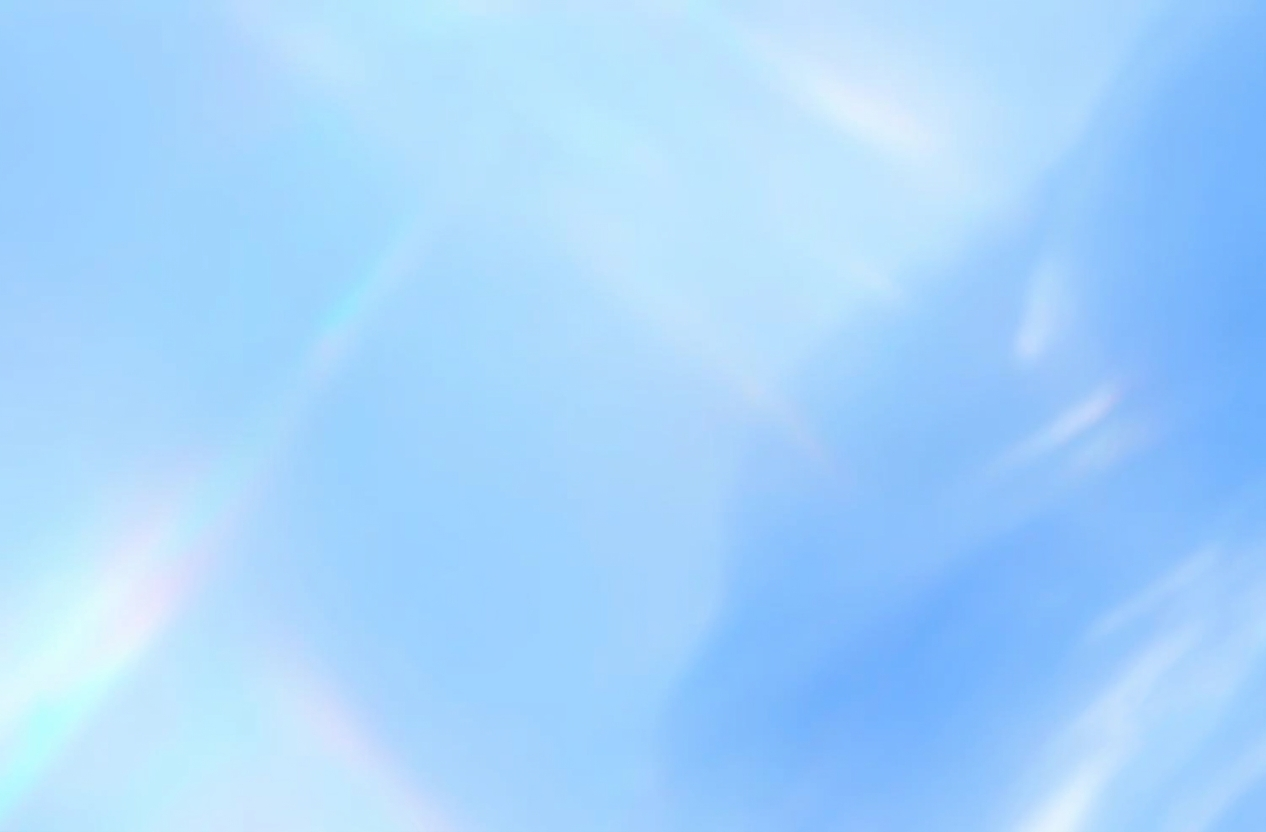
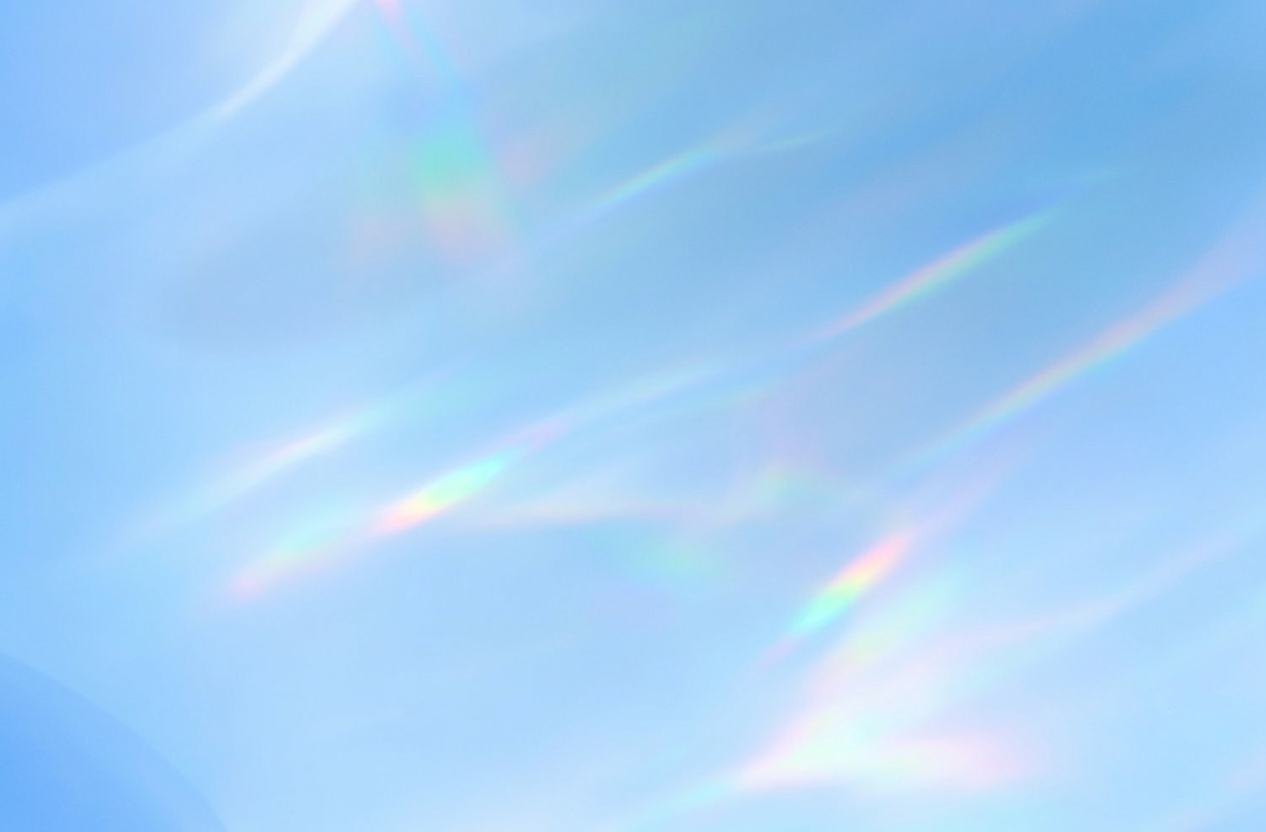
feat: hero bg gradient columns blue, problem pt 20 on title

diff --git a/src/app/components/sections/main/Hero1.tsx b/src/app/components/sections/main/Hero1.tsx
@@ -5,6 +5,18 @@ import { useEffect, useRef, useState } from 'react'
 const WHATSAPP_URL =
     'https://wa.me/573235619283?text=Hola%2C%20quiero%20saber%20m%C3%A1s%20sobre%20el%20servicio%20de%20landing%20pages%20para%20mi%20proyecto%20inmobiliario.'
 
+const WaIconContact = ({ className = "w-5 h-5" }: { className?: string }) => (
+    <svg
+        viewBox="0 0 30.667 30.667"
+        className={className}
+        fill="currentColor"
+    >
+        <path
+            d="M30.667,14.939c0,8.25-6.74,14.938-15.056,14.938c-2.639,0-5.118-0.675-7.276-1.857L0,30.667l2.717-8.017 c-1.37-2.25-2.159-4.892-2.159-7.712C0.559,6.688,7.297,0,15.613,0C23.928,0.002,30.667,6.689,30.667,14.939z M15.61,2.382 c-6.979,0-12.656,5.634-12.656,12.56c0,2.748,0.896,5.292,2.411,7.362l-1.58,4.663l4.862-1.545c2,1.312,4.393,2.076,6.963,2.076 c6.979,0,12.658-5.633,12.658-12.559C28.27,8.016,22.59,2.382,15.61,2.382z M23.214,18.38c-0.094-0.151-0.34-0.243-0.708-0.427 c-0.367-0.184-2.184-1.069-2.521-1.189c-0.34-0.123-0.586-0.185-0.832,0.182c-0.243,0.367-0.951,1.191-1.168,1.437 c-0.215,0.245-0.43,0.276-0.799,0.095c-0.369-0.186-1.559-0.57-2.969-1.817c-1.097-0.972-1.838-2.169-2.052-2.536 c-0.217-0.366-0.022-0.564,0.161-0.746c0.165-0.165,0.369-0.428,0.554-0.643c0.185-0.213,0.246-0.364,0.369-0.609 c0.121-0.245,0.06-0.458-0.031-0.643c-0.092-0.184-0.829-1.984-1.138-2.717c-0.307-0.732-0.614-0.611-0.83-0.611 c-0.215,0-0.461-0.03-0.707-0.03S9.897,8.215,9.56,8.582s-1.291,1.252-1.291,3.054c0,1.804,1.321,3.543,1.506,3.787 c0.186,0.243,2.554,4.062,6.305,5.528c3.753,1.465,3.753,0.976,4.429,0.914c0.678-0.062,2.184-0.885,2.49-1.739 C23.307,19.268,23.307,18.533,23.214,18.38z"
+        />
+    </svg>
+)
+
 const NOTIFICATIONS = [
     {
         id: 3,
@@ -51,7 +63,7 @@ type Notif = typeof NOTIFICATIONS[0]
 
 const NotifCard = ({ n, time }: { n: Notif; time: string }) => (
     <div
-        className="rounded-2xl px-4 py-3 shadow-[0_8px_40px_rgba(0,0,0,0.1)] backdrop-blur-md"
+        className="rounded-2xl px-4 py-3 shadow-[0_12px_50px_rgba(0,0,0,0.16)] backdrop-blur-md"
         style={{
             background: 'rgba(255, 255, 255, 0.75)',
         }}
@@ -185,6 +197,31 @@ const NotifStack = ({ visible }: { visible: boolean }) => {
     )
 }
 
+
+const BarsBackground = () => (
+    <div
+        className="absolute inset-0 overflow-hidden pointer-events-none"
+        style={{
+            // Modificado: El desvanecimiento empieza mucho más abajo (30%) y se vuelve totalmente transparente al 75%
+            maskImage: 'linear-gradient(to top, black 30%, transparent 75%)',
+            WebkitMaskImage: 'linear-gradient(to top, black 30%, transparent 75%)',
+        }}
+    >
+        <div className="w-full h-full flex items-stretch">
+            {[...Array(5)].map((_, i) => (
+                <div
+                    key={i}
+                    className={`flex-1 h-full ${i >= 3 ? 'hidden md:block' : ''}`}
+                    style={{
+                        background:
+                            'linear-gradient(90deg, #9bc1ff, #a8cbfc, #adcafa, #a8cbfc, #9bc1ff, #6ea3f3)',
+                    }}
+                />
+            ))}
+        </div>
+    </div>
+)
+
 export default function Hero() {
     const paraRef = useRef<HTMLParagraphElement>(null)
     const [stackVisible, setStackVisible] = useState(false)
@@ -205,16 +242,18 @@ export default function Hero() {
     }, [])
 
     return (
-        <section className="relative w-full padding-block py-40 md:py-30 bg-[#f8f8ff] overflow-hidden">
+        <section className="relative flex  w-full padding-block min-h-[100svh] bg-[#EDEFF3] overflow-hidden">
+            <BarsBackground />
+
             <div className="relative z-20 container-site w-full max-w-3xl px-4 flex flex-col items-center justify-center text-center gap-6">
                 <h1
-                    className="m-0 block text-neutral-950 font-semibold tracking-tighter drop-shadow-sm"
+                    className="m-0 block text-neutral-950 font-medium tracking-tighter drop-shadow-sm"
                     style={{
-                        fontSize: 'clamp(3rem, 4vw, 4.5rem)',
-                        lineHeight: 0.9,
+                        fontSize: 'clamp(1.9rem, 4vw, 4.5rem)',
+                        lineHeight: 1.05,
                     }}
                 >
-                    Landing pages para <br className='hidden md:block'/> proyectos inmobiliarios
+                    Landing pages para proyectos inmobiliarios
                 </h1>
 
                 <p
@@ -228,12 +267,11 @@ export default function Hero() {
                     href={WHATSAPP_URL}
                     target="_blank"
                     rel="noopener noreferrer"
-                    className="flex bg-black justify-center items-center gap-2 py-3 w-44 rounded-full text-white shadow-lg shadow-black/10 transition-all duration-300 hover:bg-neutral-800"
+                    className="flex bg-neutral-900 justify-center items-center gap-2 py-3 w-47 rounded-full text-white shadow-lg shadow-black/10 transition-all duration-300 hover:bg-neutral-800"
                 >
+                    <WaIconContact className="w-5 h-5 fill-white" />
                     Agendar llamada
-                    <svg width="13" height="13" viewBox="0 0 13 13" fill="none" aria-hidden="true" className="transition-transform group-hover:translate-x-0.5">
-                        <path d="M2 6.5h9M7.5 2.5l4 4-4 4" stroke="currentColor" strokeWidth="1.6" strokeLinecap="round" strokeLinejoin="round" />
-                    </svg>
+
                 </a>
 
                 <div className="w-full mt-8">

diff --git a/src/app/components/sections/main/Hero.tsx b/src/app/components/sections/main/Hero.tsx
@@ -197,6 +197,31 @@ const NotifStack = ({ visible }: { visible: boolean }) => {
     )
 }
 
+
+const BarsBackground = () => (
+    <div
+        className="absolute inset-0 overflow-hidden pointer-events-none"
+        style={{
+            // Modificado: El desvanecimiento empieza mucho más abajo (30%) y se vuelve totalmente transparente al 75%
+            maskImage: 'linear-gradient(to top, black 30%, transparent 75%)',
+            WebkitMaskImage: 'linear-gradient(to top, black 30%, transparent 75%)',
+        }}
+    >
+        <div className="w-full h-full flex items-stretch">
+            {[...Array(5)].map((_, i) => (
+                <div
+                    key={i}
+                    className={`flex-1 h-full ${i >= 3 ? 'hidden md:block' : ''}`}
+                    style={{
+                        background:
+                            'linear-gradient(90deg, #9bc1ff, #a8cbfc, #adcafa, #a8cbfc, #9bc1ff, #6ea3f3)',
+                    }}
+                />
+            ))}
+        </div>
+    </div>
+)
+
 export default function Hero() {
     const paraRef = useRef<HTMLParagraphElement>(null)
     const [stackVisible, setStackVisible] = useState(false)
@@ -218,6 +243,8 @@ export default function Hero() {
 
     return (
         <section className="relative w-full padding-block py-40 md:py-30 bg-[#EDEFF3] overflow-hidden">
+            <BarsBackground />
+
             <div className="relative z-20 container-site w-full max-w-3xl px-4 flex flex-col items-center justify-center text-center gap-6">
                 <h1
                     className="m-0 block text-neutral-950 font-medium tracking-tighter drop-shadow-sm"

diff --git a/src/app/components/sections/main/Problem.tsx b/src/app/components/sections/main/Problem.tsx
@@ -58,13 +58,13 @@ export default function Problem() {
       <div className="container-site">
         <div ref={headRef} className="mb-[clamp(3rem,6vw,5rem)] text-center flex flex-col items-center">
           <h2
-            className="m-0 block text-neutral-950 font-medium tracking-tighter drop-shadow-sm"
+            className="mt-20 block text-neutral-950 font-medium tracking-tighter drop-shadow-sm"
             style={{
               fontSize: 'clamp(1.5rem, 3vw, 3.5rem)',
               lineHeight: 1.05,
             }}
           >
-            La mayoría de landings inmobiliarias no convierten. Y el problema no es la pauta.
+            La mayoría de landings inmobiliarias no convierten. <br className='hidden md:block'/> Y el problema no es la pauta.
           </h2>
         </div>
 
@@ -77,8 +77,8 @@ export default function Problem() {
                 ref={el => { itemRefs.current[i] = el }}
                 className="flex flex-col"
               >
-                <div className="flex items-center gap-2 mb-3">
-                  <Icon className="w-4 h-4 text-neutral-800 shrink-0" strokeWidth={2.2} />
+                <div className="flex flex-col items-start gap-3 mb-3">
+                  <Icon className="w-5 h-5 text-neutral-800 shrink-0" strokeWidth={2.2} />
                   <h3 className="text-[1.0625rem] font-medium tracking-tight text-black m-0">
                     {p.title}
                   </h3>

diff --git a/src/app/components/sections/main/Pricing1.tsx b/src/app/components/sections/main/Pricing1.tsx
@@ -101,9 +101,9 @@ export default function Pricing() {
                         <div
                             key={plan.name}
                             ref={el => { cardRefs.current[i] = el }}
-                            className={`flex flex-col gap-6 p-6 md:p-8 rounded-xl shadow-xl shadow-neutral-200/60 ${plan.highlighted
+                            className={`flex flex-col gap-6 p-6 md:p-8 rounded-xl ${plan.highlighted
                                 ? 'bg-gradient-to-bl from-neutral-900 via-neutral-900 to-neutral-600'
-                                : 'bg-white border border-neutral-200'
+                                : 'bg-white border border-neutral-100'
                                 }`}
                         >
                             {/* Header */}

diff --git a/src/app/page.tsx b/src/app/page.tsx
@@ -1,6 +1,6 @@
 // app/page.tsx
 import Header from './components/layout/HeaderS'
-import Hero from './components/sections/main/Hero'
+import Hero from './components/sections/main/Hero1'
 import Problem from './components/sections/main/Problem'
 import Service from './components/sections/main/Service1'
 import Process from './components/sections/main/Process1'